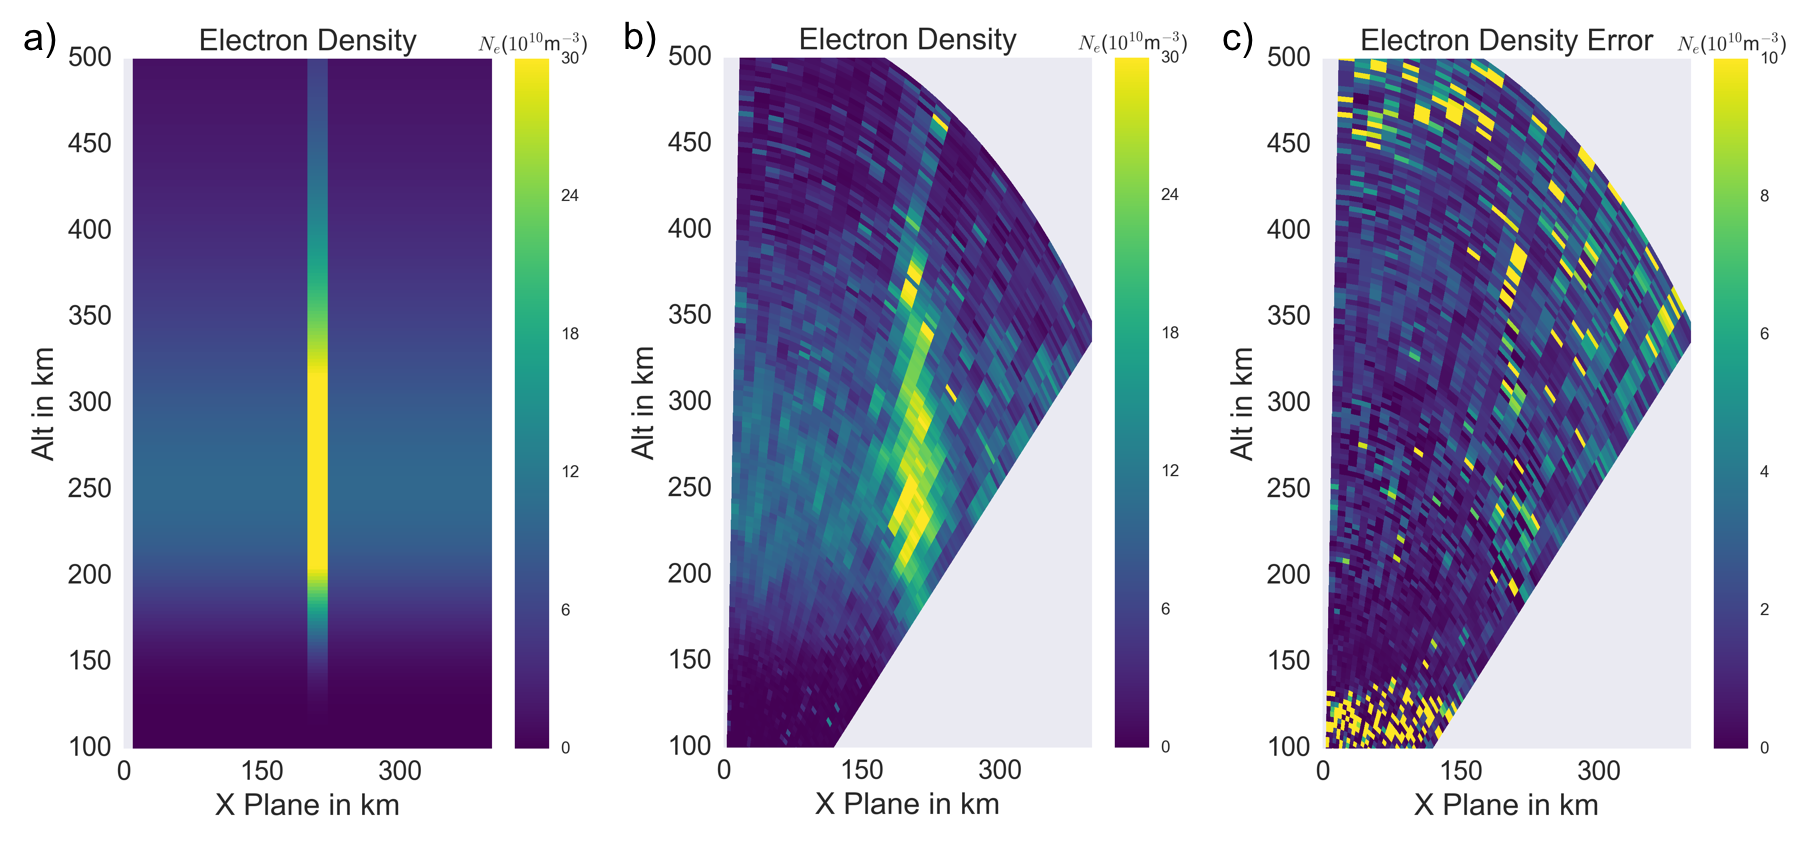
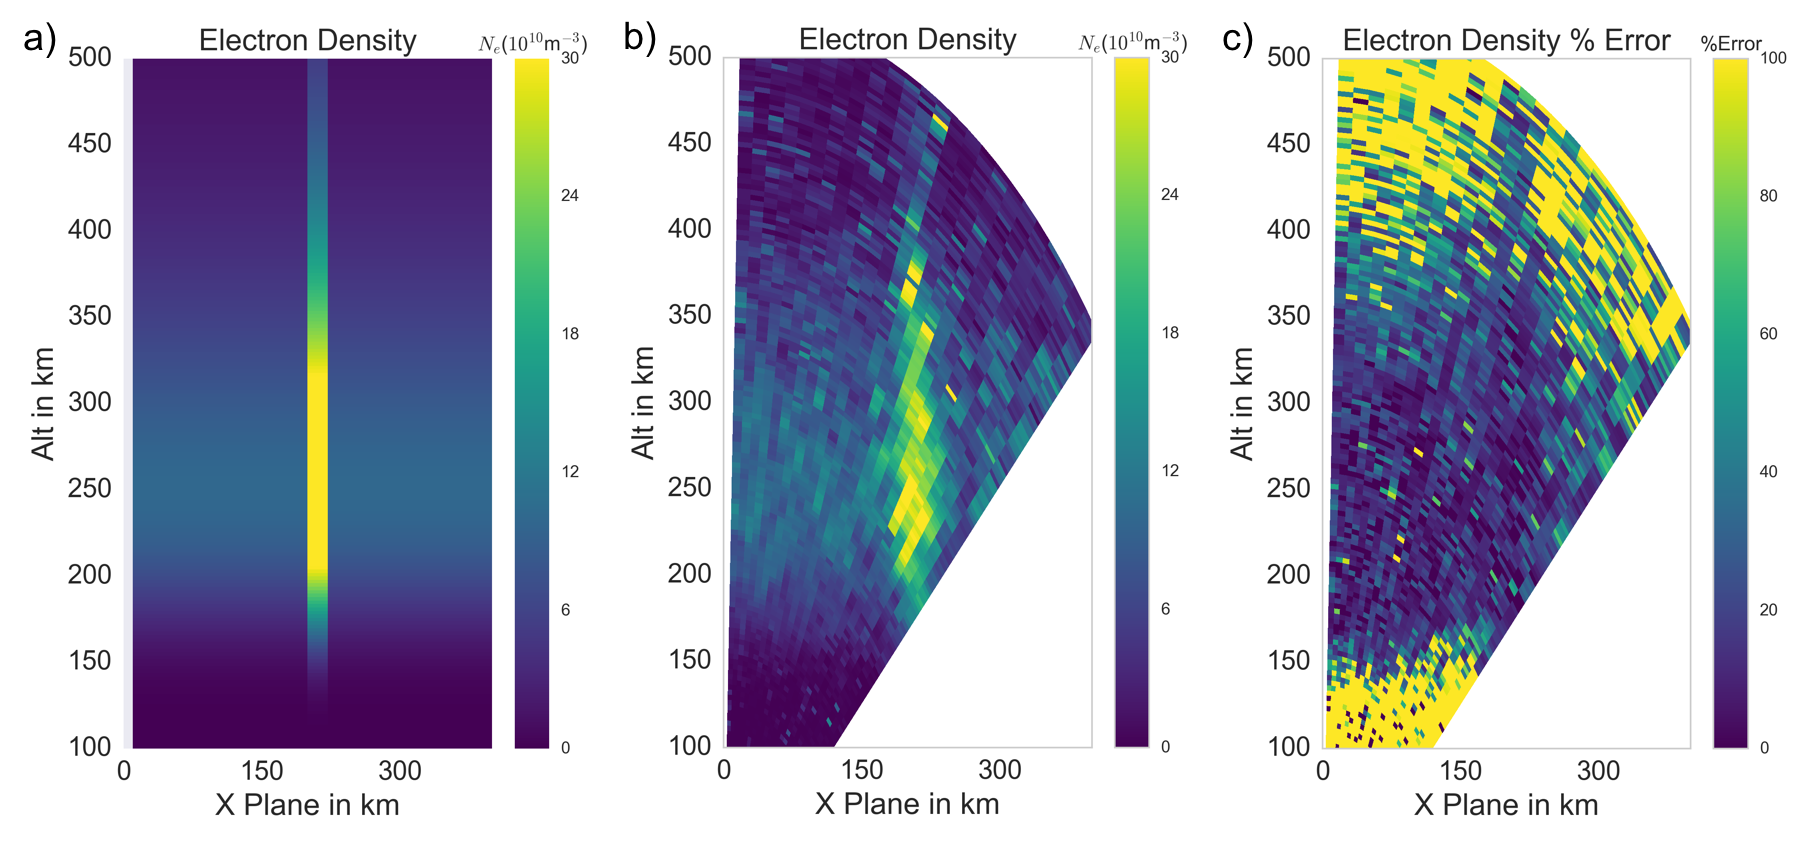
update to most fo the figures

diff --git a/4_STISRS/stisrs.tex b/4_STISRS/stisrs.tex
@@ -307,7 +307,7 @@ The fitted electron density for both the 10 km enhancement and 18 km enhancement
 \begin{figure}[!t]
 \centering
 \includegraphics[width=6in]{moving18kminouterr}
-\caption{18 km wide enhancement moving simulation at 480 seconds. a) Input $N_e$. a)  b) Fitted $N_e$ with 60 second integration. c) Estimated error from fit.}
+\caption{18 km wide enhancement moving simulation at 480 seconds. a) Input $N_e$.  b) Fitted $N_e$ with 60 second integration. c) Estimated error from fit.}
 \label{fig:moving18all}
 \end{figure}
 
